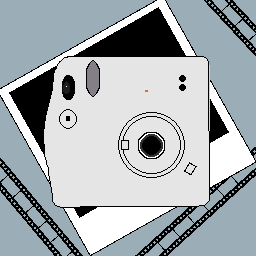
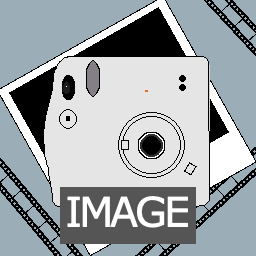
New method to get all active pixels

Changed region(s): [[0.2188, 0.7188, 0.7812, 0.9688]]

diff --git a/src/main/java/uk/pixtle/application/plugins/plugins/canvas/infinitecanvas/InfiniteCanvasPlugin.java b/src/main/java/uk/pixtle/application/plugins/plugins/canvas/infinitecanvas/InfiniteCanvasPlugin.java
@@ -3,16 +3,21 @@ package uk.pixtle.application.plugins.plugins.canvas.infinitecanvas;
 import lombok.Getter;
 import lombok.Setter;
 import org.json.JSONObject;
+import org.w3c.dom.Text;
 import uk.pixtle.application.Application;
 import uk.pixtle.application.plugins.expansions.PluginDrawableExpansion;
 import uk.pixtle.application.plugins.expansions.PluginMiniToolExpansion;
+import uk.pixtle.application.plugins.plugins.Plugin;
 import uk.pixtle.application.plugins.plugins.canvas.CanvasPlugin;
 import uk.pixtle.application.plugins.plugins.canvas.drawing.Drawing;
 import uk.pixtle.application.plugins.plugins.canvas.infinitecanvas.layer.Layer;
+import uk.pixtle.application.plugins.plugins.canvas.infinitecanvas.layer.drawinglayer.Chunk;
+import uk.pixtle.application.plugins.plugins.canvas.infinitecanvas.layer.imagelayer.ImageLayer;
 import uk.pixtle.application.plugins.plugins.canvas.infinitecanvas.layer.imageprocessors.LayerImageProcessor;
 import uk.pixtle.application.plugins.plugins.canvas.infinitecanvas.layer.LayerManager;
 import uk.pixtle.application.plugins.plugins.canvas.infinitecanvas.layer.LayerType;
 import uk.pixtle.application.plugins.plugins.canvas.infinitecanvas.layer.drawinglayer.DrawingLayer;
+import uk.pixtle.application.plugins.plugins.canvas.infinitecanvas.layer.textlayer.TextLayer;
 import uk.pixtle.application.plugins.plugins.canvas.infinitecanvas.layer.ui.BackgroundLayerUI;
 import uk.pixtle.application.plugins.plugins.canvas.infinitecanvas.layer.ui.LayerUIDrawer;
 import uk.pixtle.application.plugins.plugins.tools.keylistenerplugin.KeyListener;
@@ -24,6 +29,7 @@ import uk.pixtle.application.plugins.toolsettings.inputdevices.InputDevice;
 import uk.pixtle.application.plugins.toolsettings.inputdevices.SliderInputDevice;
 import uk.pixtle.application.ui.layouts.anchorlayout.AnchoredComponent;
 import uk.pixtle.application.ui.layouts.anchorlayout.anchors.Anchor;
+import uk.pixtle.application.ui.window.canvas.Canvas;
 import uk.pixtle.application.ui.window.canvas.CanvasUI;
 import uk.pixtle.application.ui.window.minitoollist.MiniToolPanel;
 import uk.pixtle.application.ui.window.notifications.Notification;
@@ -35,6 +41,7 @@ import java.awt.event.ActionListener;
 import java.awt.event.KeyEvent;
 import java.awt.image.BufferedImage;
 import java.util.ArrayList;
+import java.util.Map;
 import java.util.concurrent.locks.ReentrantLock;
 
 public class InfiniteCanvasPlugin extends CanvasPlugin implements PluginDrawableExpansion, PluginMiniToolExpansion, PluginSavePolicy, PluginKeyListenerPolicy {
@@ -138,7 +145,7 @@ public class InfiniteCanvasPlugin extends CanvasPlugin implements PluginDrawable
 
     @Getter
     @Setter
-    private double zoom;
+    public double zoom;
 
     public void zoomAround(double paramScale, int paramX, int paramY) {
 
@@ -522,5 +529,132 @@ public class InfiniteCanvasPlugin extends CanvasPlugin implements PluginDrawable
         this.onLoadingFinish();
 
         this.repaint(true);
+    }
+
+    @KeyListener(KEY=KeyEvent.VK_Z, MODIFIERS = 0)
+    public void showFullImage() {
+
+        int top = Integer.MAX_VALUE, left = Integer.MAX_VALUE;
+        int bottom = Integer.MIN_VALUE, right = Integer.MIN_VALUE;
+
+        for(Layer layer : this.getLayerManager().getLayers()) {
+            switch(layer.getLayerType()) {
+                case DRAWING:
+
+                    DrawingLayer drawingLayer = (DrawingLayer) layer;
+
+                    for(Map.Entry<String, Chunk> chunk : drawingLayer.getChunkMap().entrySet()) {
+                        String[] split = chunk.getKey().split(":");
+
+                        // LEFT
+                        if(Integer.valueOf(split[0]) * drawingLayer.getPixelsPerChunk() < left) {
+                            int lCount = 0;
+                            x: for(int x = 0; x < drawingLayer.getPixelsPerChunk(); x++, lCount++) {
+                                y: for(int y = 0; y < drawingLayer.getPixelsPerChunk(); y++) {
+                                    int alpha = chunk.getValue().getActualImage().getRGB(x, y) >> 24;
+                                    if(alpha != 0) break x;
+                                }
+                            }
+
+                            if(lCount != drawingLayer.getPixelsPerChunk()) {
+                                left = Math.min(Integer.valueOf(split[0]) * drawingLayer.getPixelsPerChunk() + lCount, left);
+                            }
+                        }
+
+                        // RIGHT
+                        if(((Integer.valueOf(split[0])+1) * drawingLayer.getPixelsPerChunk()) - 1 > right) {
+                            int rCount = 0;
+                            x: for(int x = 0; x < drawingLayer.getPixelsPerChunk(); x++, rCount++) {
+                                y: for(int y = 0; y < drawingLayer.getPixelsPerChunk(); y++) {
+                                    int alpha = chunk.getValue().getActualImage().getRGB(drawingLayer.getPixelsPerChunk() - 1 - x, y) >> 24;
+                                    if(alpha != 0) break x;
+                                }
+                            }
+
+                            if(rCount != drawingLayer.getPixelsPerChunk()) {
+                                right = Math.max(((Integer.valueOf(split[0])+1) * drawingLayer.getPixelsPerChunk()) - rCount, right);
+                            }
+                        }
+
+                        // TOP
+                        if(Integer.valueOf(split[1]) * drawingLayer.getPixelsPerChunk() < top) {
+                            int tCount = 0;
+                            y: for(int y = 0; y < drawingLayer.getPixelsPerChunk(); y++, tCount++) {
+                                x: for(int x = 0; x < drawingLayer.getPixelsPerChunk(); x++) {
+                                    int alpha = chunk.getValue().getActualImage().getRGB(x, y) >> 24;
+                                    if(alpha != 0) break y;
+                                }
+                            }
+
+                            if(tCount != drawingLayer.getPixelsPerChunk()) {
+                                top = Math.min(Integer.valueOf(split[1]) * drawingLayer.getPixelsPerChunk() + tCount, top);
+                            }
+                        }
+
+                        // BOTTOM
+                        if(((Integer.valueOf(split[1])+1) * drawingLayer.getPixelsPerChunk()) - 1 > bottom) {
+                            int bCount = 0;
+                            y: for(int y = 0; y < drawingLayer.getPixelsPerChunk(); y++, bCount++) {
+                                x: for(int x = 0; x < drawingLayer.getPixelsPerChunk(); x++) {
+                                    int alpha = chunk.getValue().getActualImage().getRGB(x, drawingLayer.getPixelsPerChunk() - 1 - y) >> 24;
+                                    if(alpha != 0) break y;
+                                }
+                            }
+
+                            if(bCount != drawingLayer.getPixelsPerChunk()) {
+                                bottom = Math.max(((Integer.valueOf(split[1])+1) * drawingLayer.getPixelsPerChunk()) - bCount, bottom);
+                            }
+                        }
+                    }
+
+                    break;
+                case IMAGE:
+
+                    ImageLayer imageLayer = (ImageLayer) layer;
+
+                    left = Math.min((int) imageLayer.getTopLeftPixel().getX(), left);
+                    right = Math.max((int) imageLayer.getBottomRightPixel().getX(), right);
+
+                    top = Math.min((int) imageLayer.getTopLeftPixel().getY(), top);
+                    bottom = Math.max((int) imageLayer.getBottomRightPixel().getY(), bottom);
+
+                    break;
+                case TEXT:
+
+                    TextLayer textLayer = (TextLayer) layer;
+
+                    left = Math.min((int) textLayer.getTopLeftPixel().getX(), left);
+                    top = Math.min((int) textLayer.getTopLeftPixel().getY(), top);
+
+
+                    right = Math.max((int) (textLayer.getDimensions().getWidth() + textLayer.getTopLeftPixel().getX()), right);
+                    bottom = Math.max((int) (textLayer.getDimensions().getHeight() + textLayer.getTopLeftPixel().getY()), bottom);
+
+                    break;
+                default:
+                    break;
+            }
+        }
+
+        if(top == Integer.MAX_VALUE && left == Integer.MAX_VALUE && bottom == Integer.MIN_VALUE && right == Integer.MIN_VALUE) {
+            // Image is empty
+            return;
+        }
+
+        int width = Math.abs(right - left);
+        int height = Math.abs(bottom - top);
+        CanvasUI canvasUI = (CanvasUI) super.getApplication().getUIManager().getWindow().getCanvas();
+
+        double scale = Math.min((double) canvasUI.getWidth() / width, (double)canvasUI.getHeight() / height);
+        int differenceX = (int) Math.round(canvasUI.getWidth() / scale - width);
+        int differenceY = (int) Math.round(canvasUI.getHeight() / scale - height);
+
+
+        this.setZoom(scale);
+        this.setCurrentPixelY(top - differenceY / 2);
+        this.setCurrentPixelX(left - differenceX / 2);
+
+        this.repaint(true);
+
     }
 }

diff --git a/src/main/java/uk/pixtle/application/plugins/plugins/canvas/infinitecanvas/layer/LayerManager.java b/src/main/java/uk/pixtle/application/plugins/plugins/canvas/infinitecanvas/layer/LayerManager.java
@@ -168,7 +168,7 @@ public class LayerManager {
         JButton imageLayerButton = new JButton();
         imageLayerButton.setOpaque(false);
         imageLayerButton.setBorder(BorderFactory.createLineBorder(Color.BLACK, 1, false));
-        imageLayerButton.setIcon(ResourceHandler.getResourceAsImageIcon("Picture_layer.png", "Image", 150, 150));
+        imageLayerButton.setIcon(ResourceHandler.getResourceAsImageIcon("Picture_layer.png", 150, 150));
 
         imageLayerButton.addActionListener(new ActionListener() {
             @Override
@@ -186,9 +186,10 @@ public class LayerManager {
         drawingLayerAnchors.createAnchor(Anchor.DirectionType.X, 150);
         drawingLayerAnchors.createAnchor(Anchor.DirectionType.X, 300);
 
-        JButton drawingLayerButton = new JButton("Drawing");
+        JButton drawingLayerButton = new JButton();
         drawingLayerButton.setOpaque(false);
         drawingLayerButton.setBorder(BorderFactory.createLineBorder(Color.BLACK, 1, false));
+        drawingLayerButton.setIcon(ResourceHandler.getResourceAsImageIcon("Drawing_layer.png", 150, 150));
 
         drawingLayerButton.addActionListener(new ActionListener() {
             @Override
@@ -206,9 +207,10 @@ public class LayerManager {
         textLayerAnchors.createAnchor(Anchor.DirectionType.X, 450);
         textLayerAnchors.createAnchor(Anchor.DirectionType.X, 300);
 
-        JButton textLayerButton = new JButton("Text");
+        JButton textLayerButton = new JButton();
         textLayerButton.setOpaque(false);
         textLayerButton.setBorder(BorderFactory.createLineBorder(Color.BLACK, 1, false));
+        textLayerButton.setIcon(ResourceHandler.getResourceAsImageIcon("Text_Layer.png", 150, 150));
 
         textLayerButton.addActionListener(new ActionListener() {
             @Override

diff --git a/src/main/java/uk/pixtle/util/ResourceHandler.java b/src/main/java/uk/pixtle/util/ResourceHandler.java
@@ -16,7 +16,7 @@ public final class ResourceHandler {
         return url;
     }
 
-    public static ImageIcon getResourceAsImageIcon(String paramFileName, String paramTitle, int paramWidth, int paramHeight) {
+    public static ImageIcon getResourceAsImageIcon(String paramFileName, int paramWidth, int paramHeight) {
         Image transformedImage = new ImageIcon(ResourceHandler.getResourceURL(paramFileName)).getImage().getScaledInstance(paramWidth, paramHeight, Image.SCALE_SMOOTH);
 
         return new ImageIcon(transformedImage);
